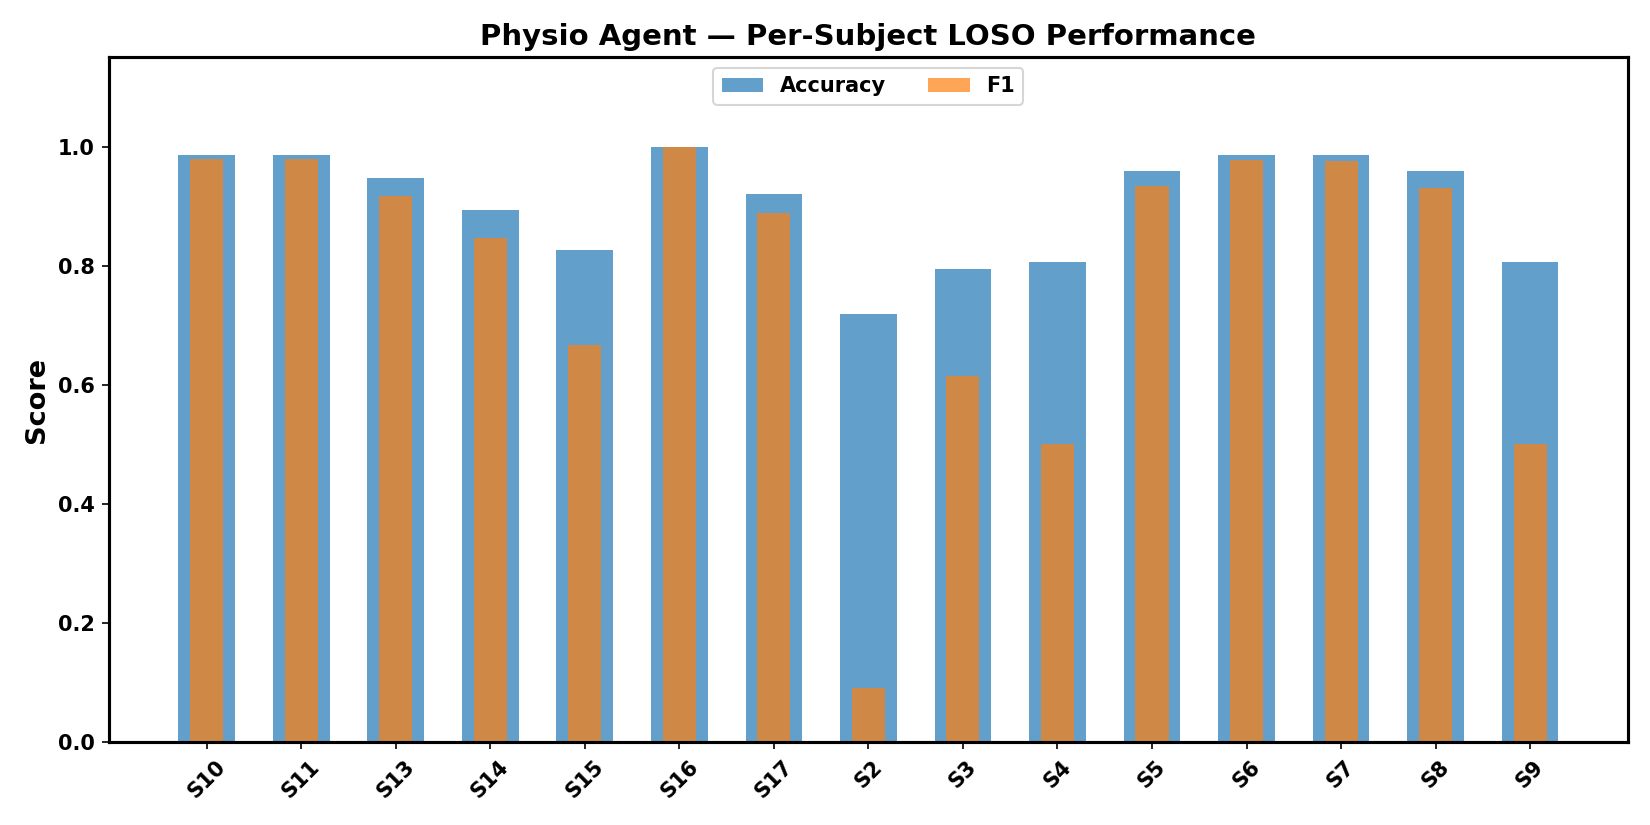
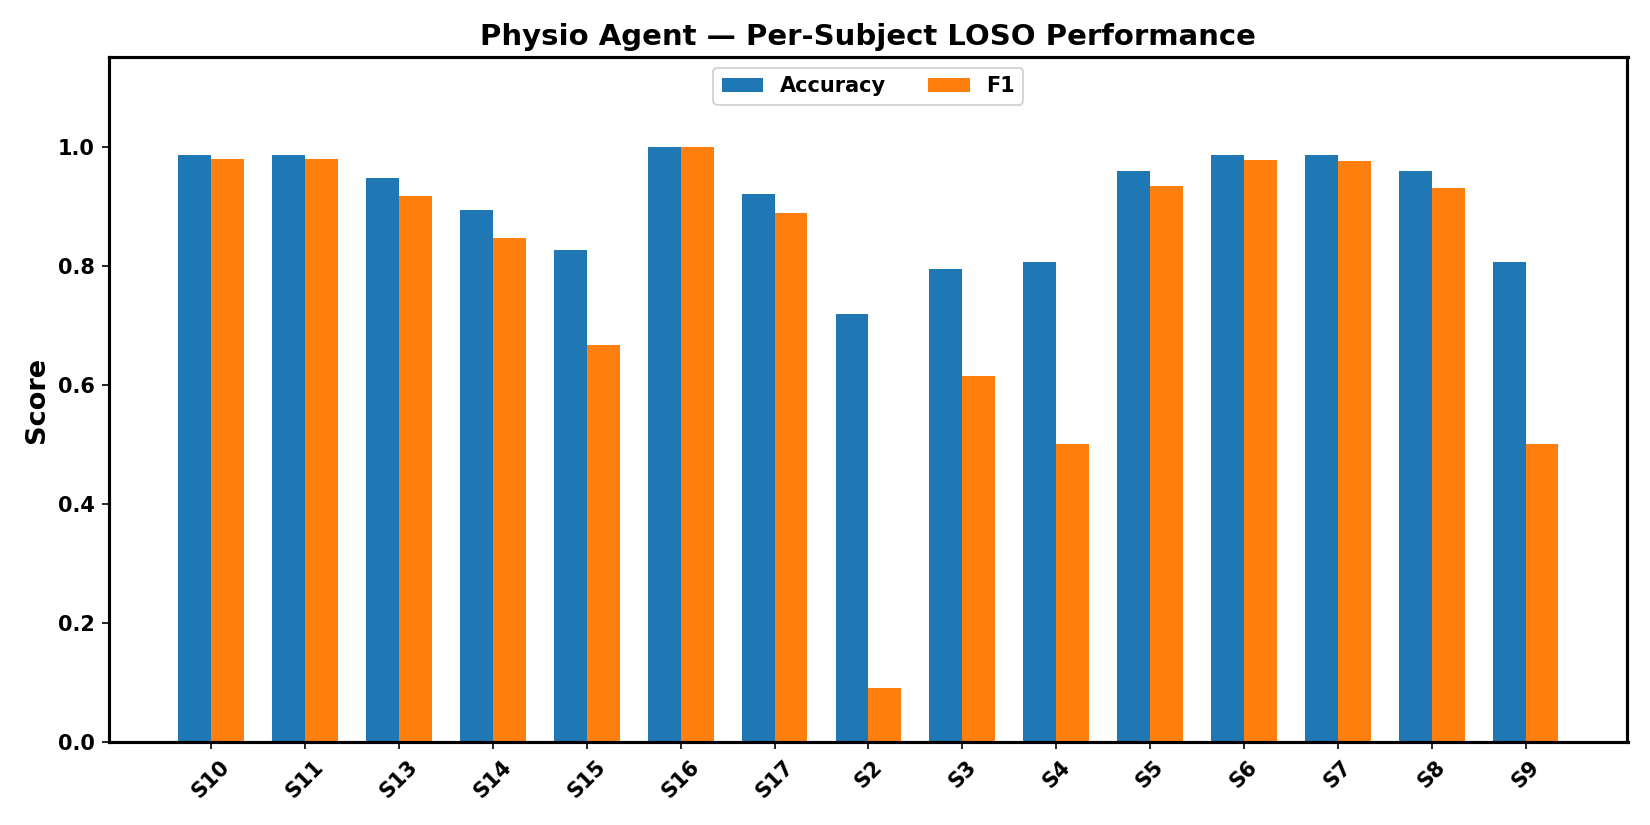
[eval] fix overlapping bars in LOSO per-subject chart — switch to grouped bars

diff --git a/eval/generate_figures.py b/eval/generate_figures.py
@@ -36,8 +36,9 @@ def fig_loso_per_subject():
     df = pd.read_csv("results/physio_loso_results.csv")
     fig, ax = plt.subplots(figsize=(11, 5.5))
     x = range(len(df))
-    ax.bar(x, df["acc"], label="Accuracy", alpha=0.7, width=0.6)
-    ax.bar(x, df["f1"], label="F1", alpha=0.7, width=0.35)
+    width = 0.35
+    ax.bar([i - width/2 for i in x], df["acc"], width, label="Accuracy")
+    ax.bar([i + width/2 for i in x], df["f1"], width, label="F1")
     ax.set_xticks(x)
     ax.set_xticklabels(df["subject"], rotation=45, fontsize=10, fontweight="bold")
     ax.set_ylabel("Score", fontsize=13, fontweight="bold")
@@ -53,7 +54,6 @@ def fig_loso_per_subject():
     plt.savefig(f"{OUT_DIR}/loso_per_subject.png", dpi=150)
     plt.close()
     print("Saved loso_per_subject.png")
-
 
 def fig_baseline_comparison():
     baselines = pd.read_csv("results/baseline_results.csv")
